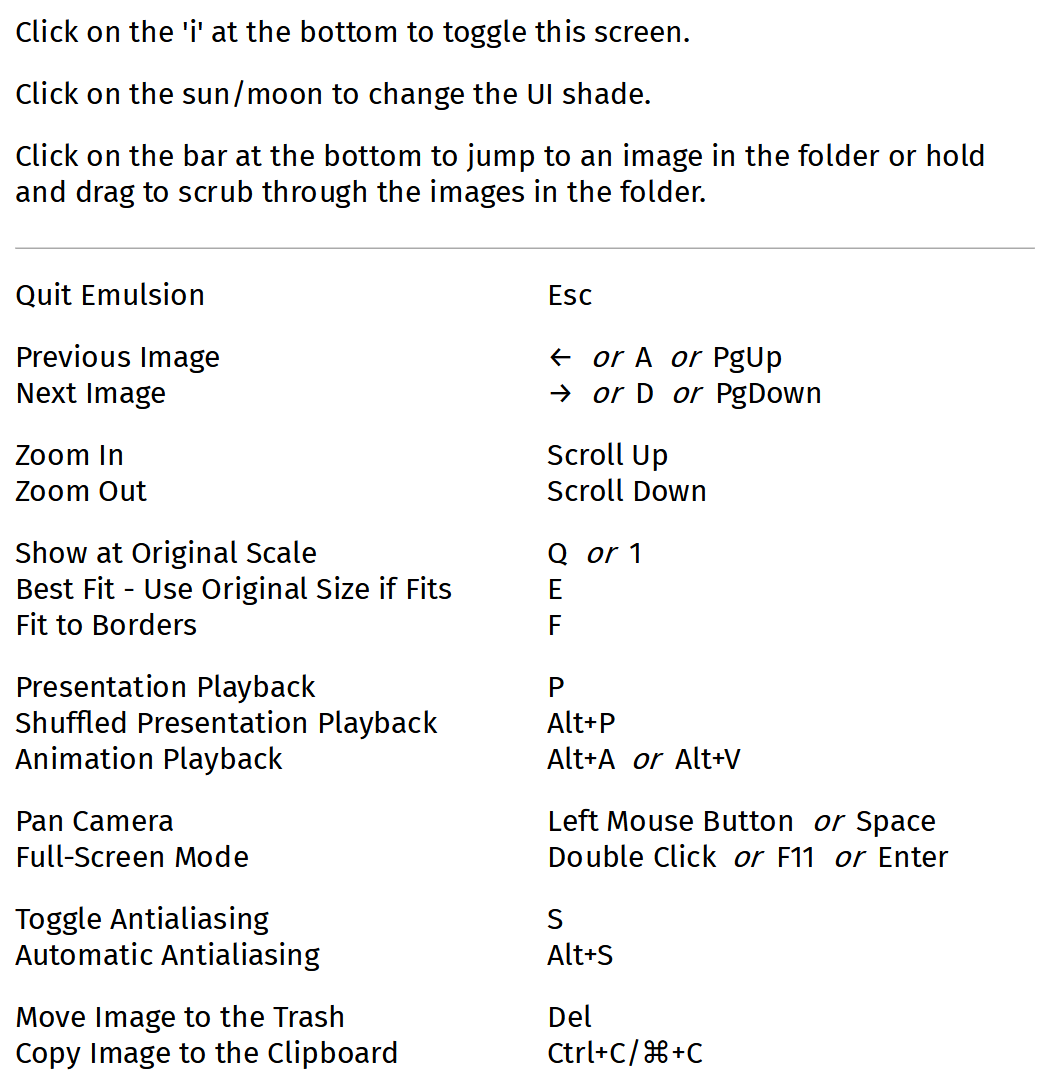
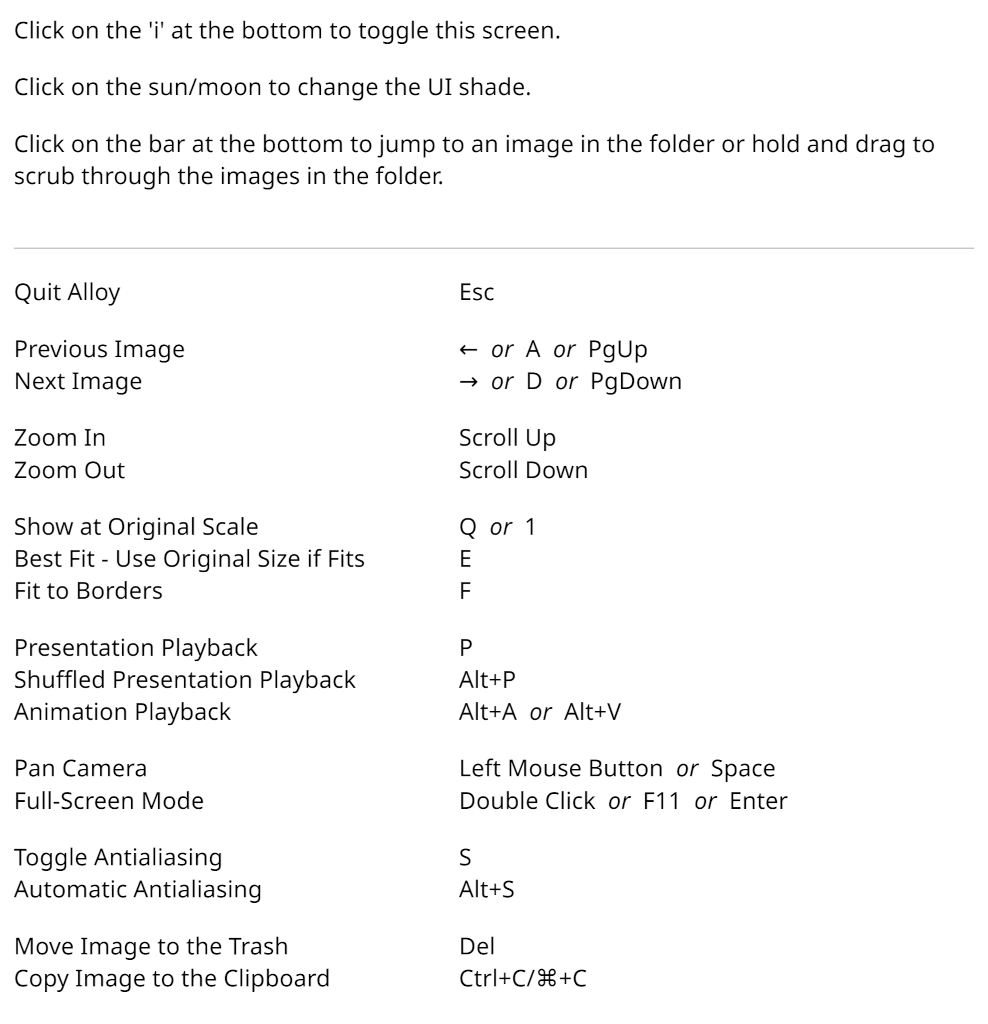
Change most references of "Emulsion" => "Alloy" (#202)

diff --git a/build.rs b/build.rs
@@ -6,8 +6,8 @@ use std::{env, fs, path::Path};
 #[cfg(windows)]
 fn platform_specific() {
     let mut res = winres::WindowsResource::new();
-    res.set("FileDescription", "Emulsion");
-    res.set_icon("resource_dev/emulsion.ico");
+    res.set("FileDescription", "Alloy");
+    res.set_icon("resource_dev/alloy.ico");
     res.compile().unwrap();
 }
 

diff --git a/src/main.rs b/src/main.rs
@@ -265,7 +265,7 @@ fn main() {
 
 fn make_icon() -> Icon {
     let img =
-        image::load_from_memory(include_bytes!("../resource/emulsion48.png"))
+        image::load_from_memory(include_bytes!("../resource/alloy48.png"))
             .unwrap();
     let rgba = img.into_rgba8();
     let (w, h) = rgba.dimensions();

diff --git a/README.md b/README.md
@@ -1,6 +1,5 @@
 ## Alloy
-Image viewer based on (now-discontinued)
-[Emulsion](https://arturkovacs.github.io/emulsion-website/).
+Image viewer based on (now-discontinued) [Emulsion].
 
 Alloy targets Windows, Mac, and Linux (with more targets to come!).
 
@@ -42,9 +41,9 @@ future.
 If Alloy closes unexpectedly please locate the `"panic.txt"` file. This file has
 a different location depending on the target platform.
 
-- Windows: `%localappdata%\emulsion\data`
-- MacOS: `$HOME/Library/Application Support/emulsion`
-- Linux: `$XDG_DATA_HOME/emulsion` or `$HOME/.local/share/emulsion`
+- Windows: `%localappdata%\alloy\data`
+- MacOS: `$HOME/Library/Application Support/alloy`
+- Linux: `$XDG_DATA_HOME/alloy` or `$HOME/.local/share/alloy`
 
 When posting a bug report please upload the contents of this file to GitHub.
 If you deem it too large just paste the last panic entry between the rows of
